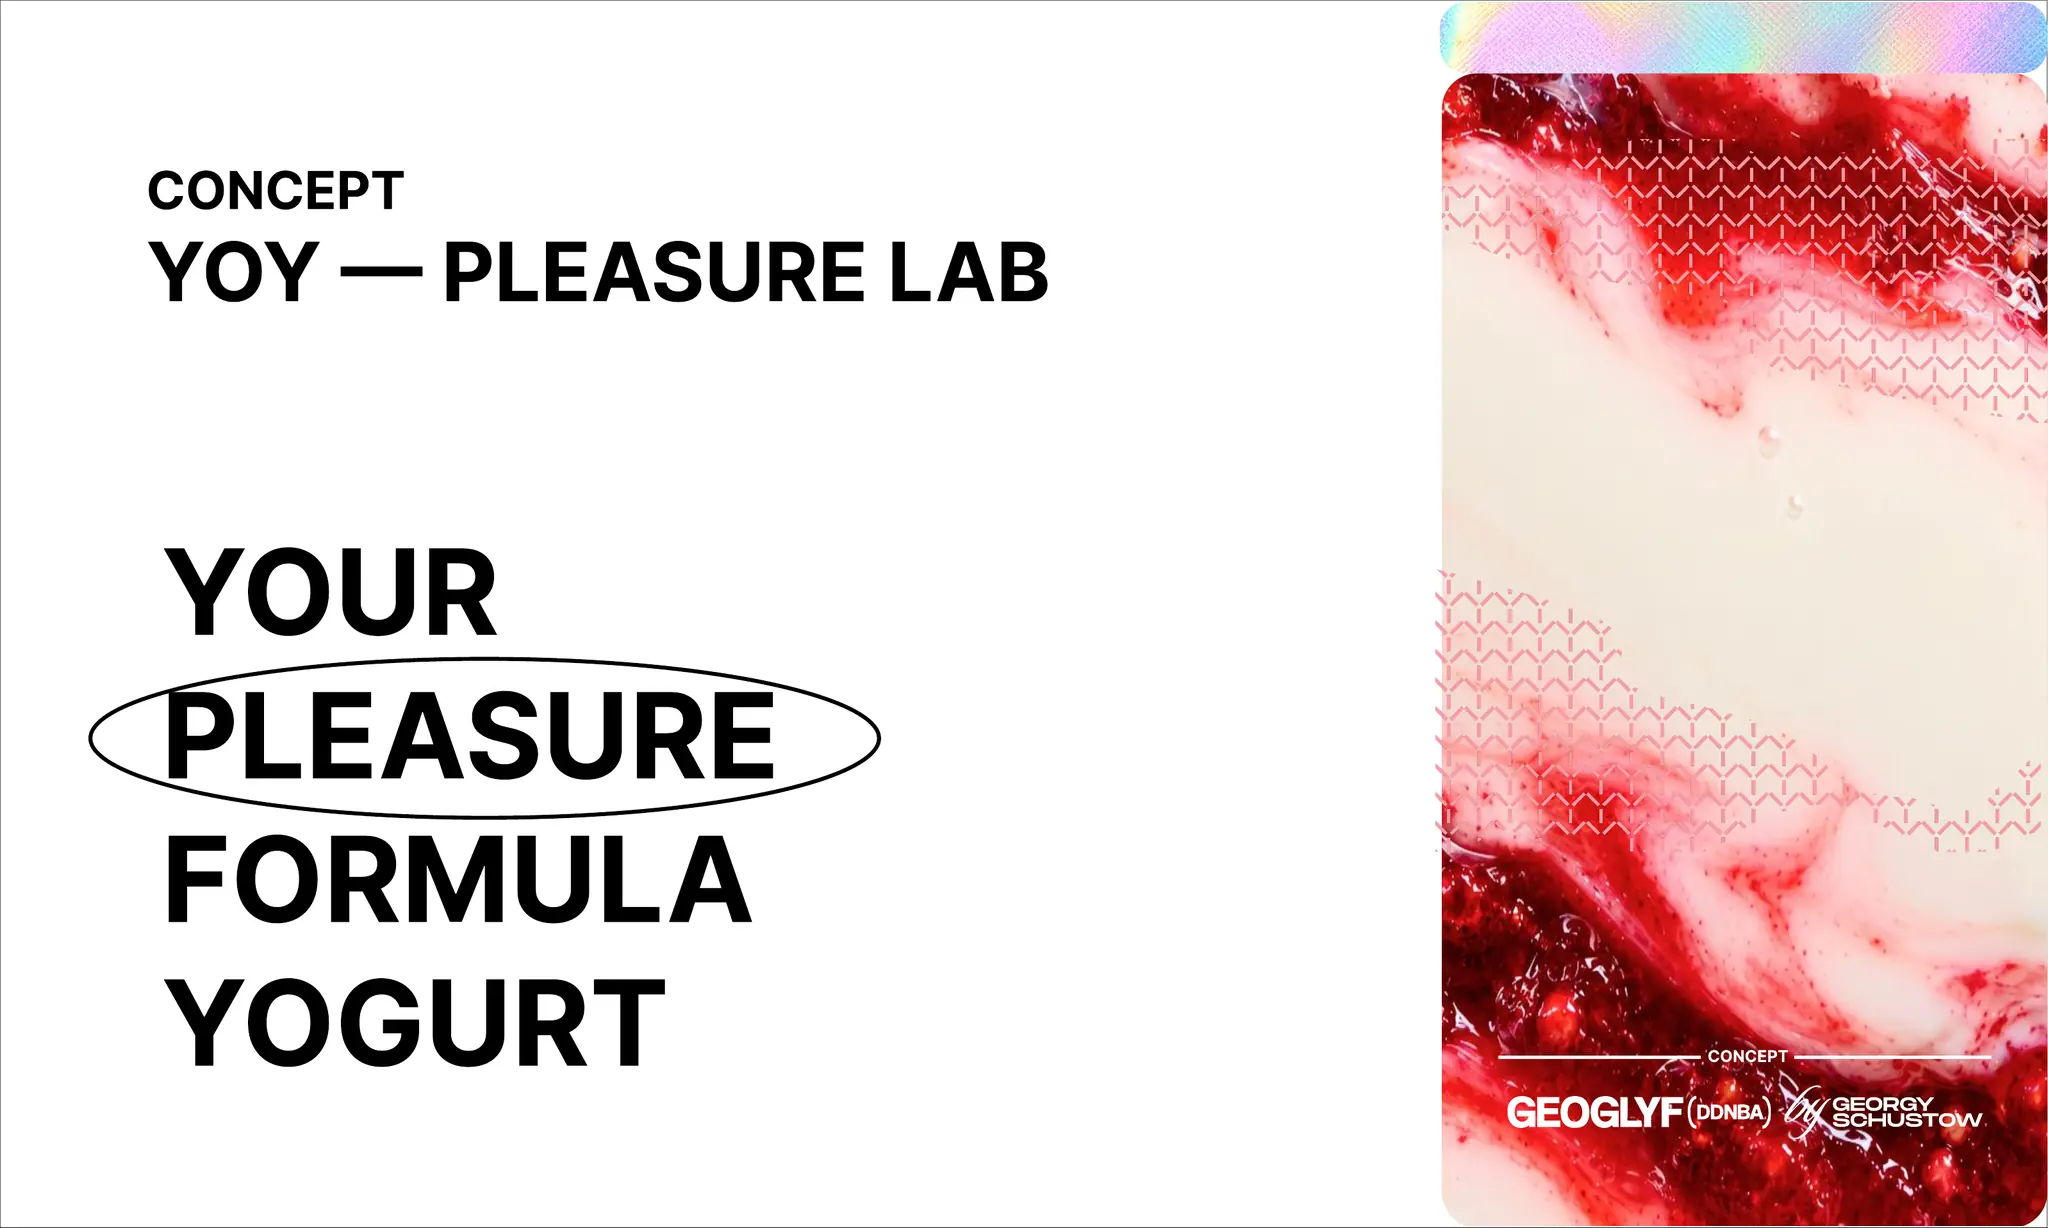
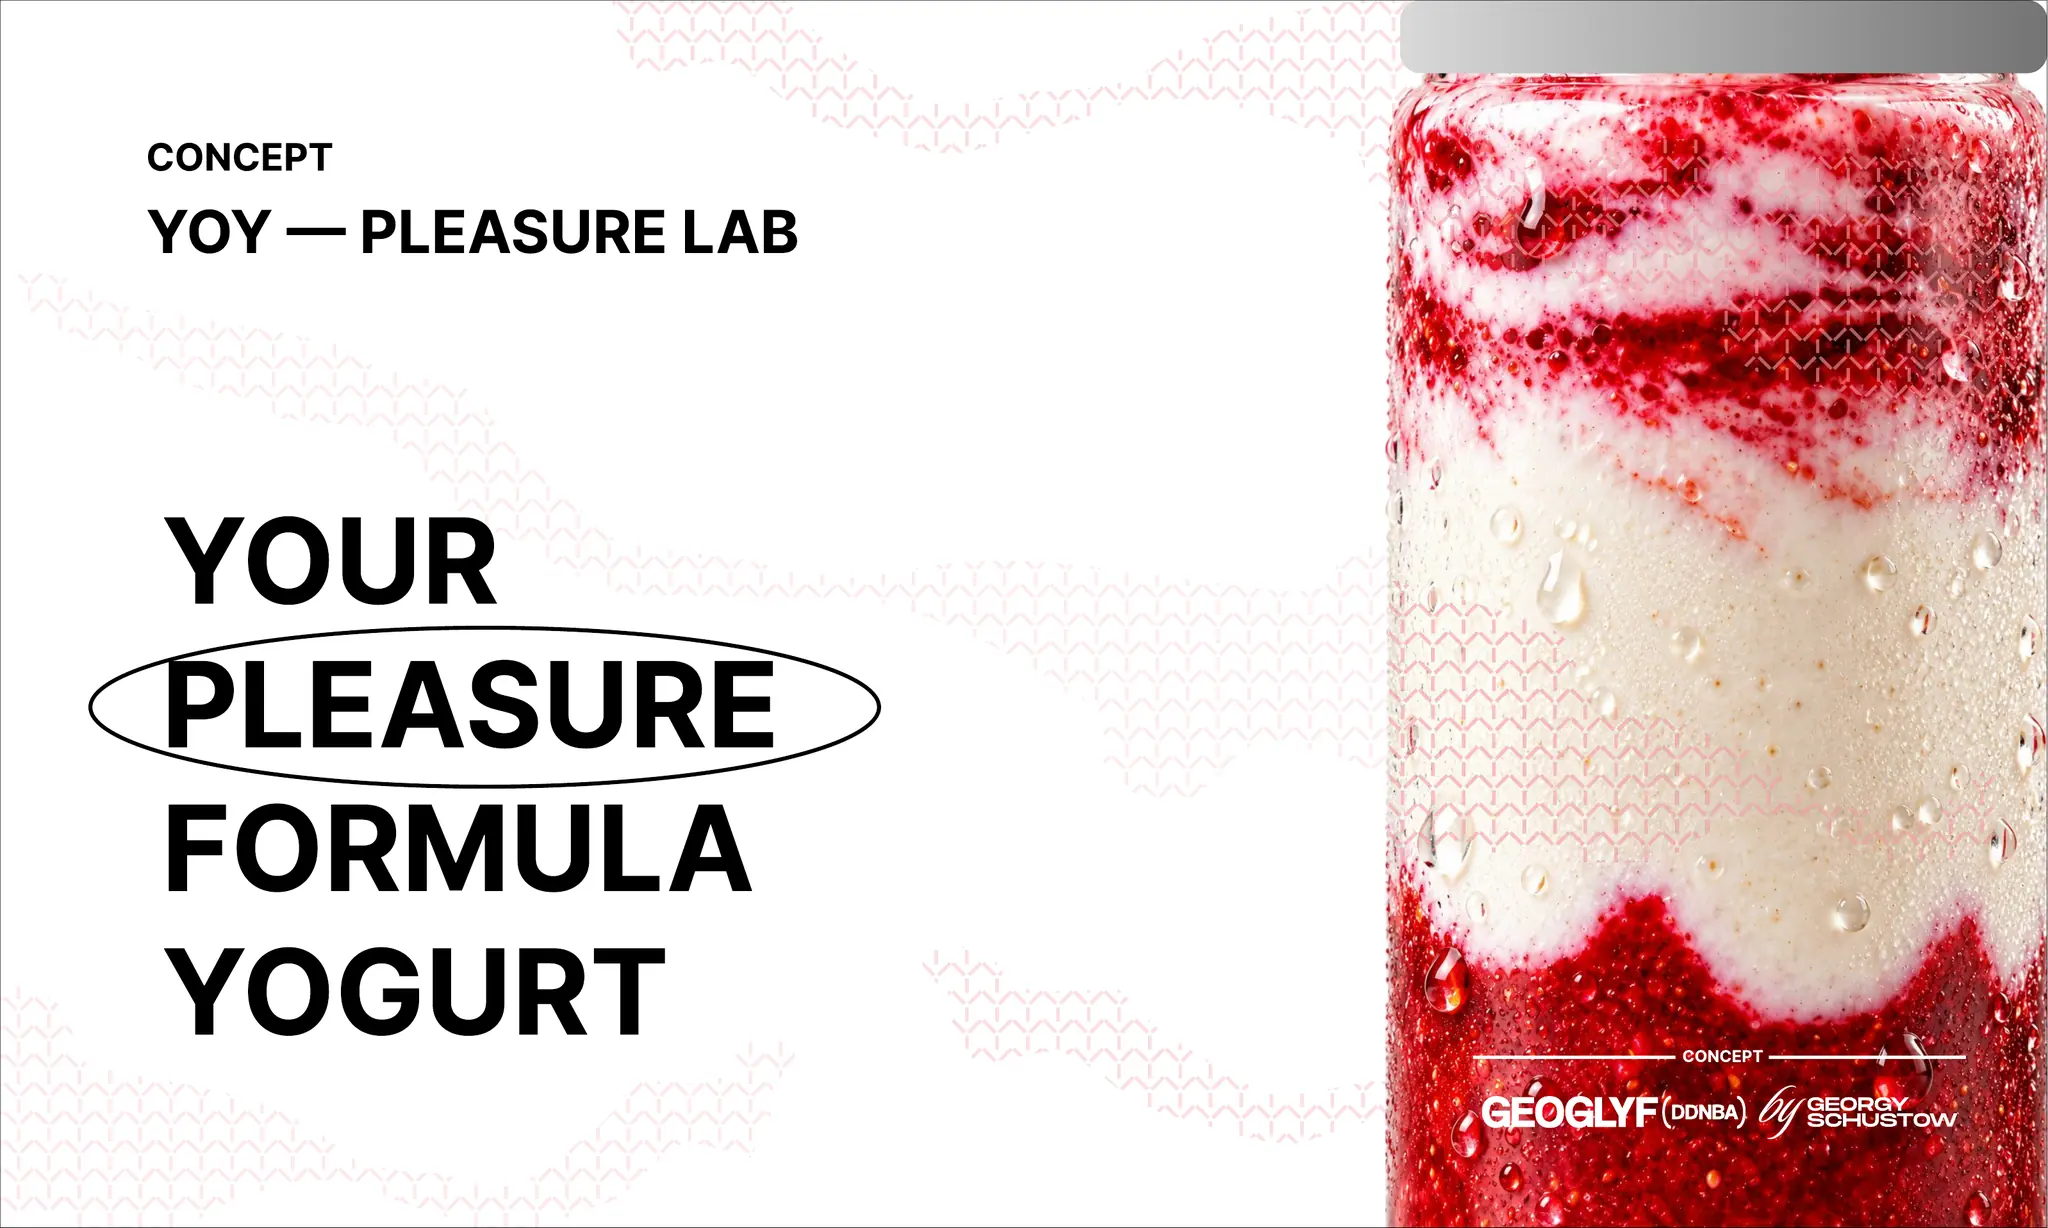
Обложка: банка йогурта справа (Frame 4)
Картинки первого слайда и превью ссылки заменены на Frame 4,
версия картинок ?v=7.

Claude-Session: https://claude.ai/code/session_01Lp3Q6ktycZ9twvzzsKVyRs

diff --git a/index.html b/index.html
@@ -8,7 +8,7 @@
 <meta property="og:title" content="YOY — Pleasure Lab">
 <meta property="og:description" content="Your Pleasure Formula Yogurt — концепция бренда">
 <meta property="og:type" content="website">
-<meta property="og:image" content="https://mrgeos.github.io/Ttteeessstt/slides/og.jpg?v=3">
+<meta property="og:image" content="https://mrgeos.github.io/Ttteeessstt/slides/og.jpg?v=7">
 <meta name="twitter:card" content="summary_large_image">
 <meta name="theme-color" content="#0d0d0e">
 <meta name="apple-mobile-web-app-capable" content="yes">
@@ -251,7 +251,7 @@ body.zoomed #track { overflow-x: hidden; touch-action: none; }
   const N = AR.length;
   const id = i => String(i + 1).padStart(2, '0');
   // Bump V when slide images change so cached copies are not reused.
-  const V = 6;
+  const V = 7;
   const src = (i, size) => `slides/${id(i)}-${size}.webp?v=${V}`;
 
   const $ = s => document.getElementById(s);
